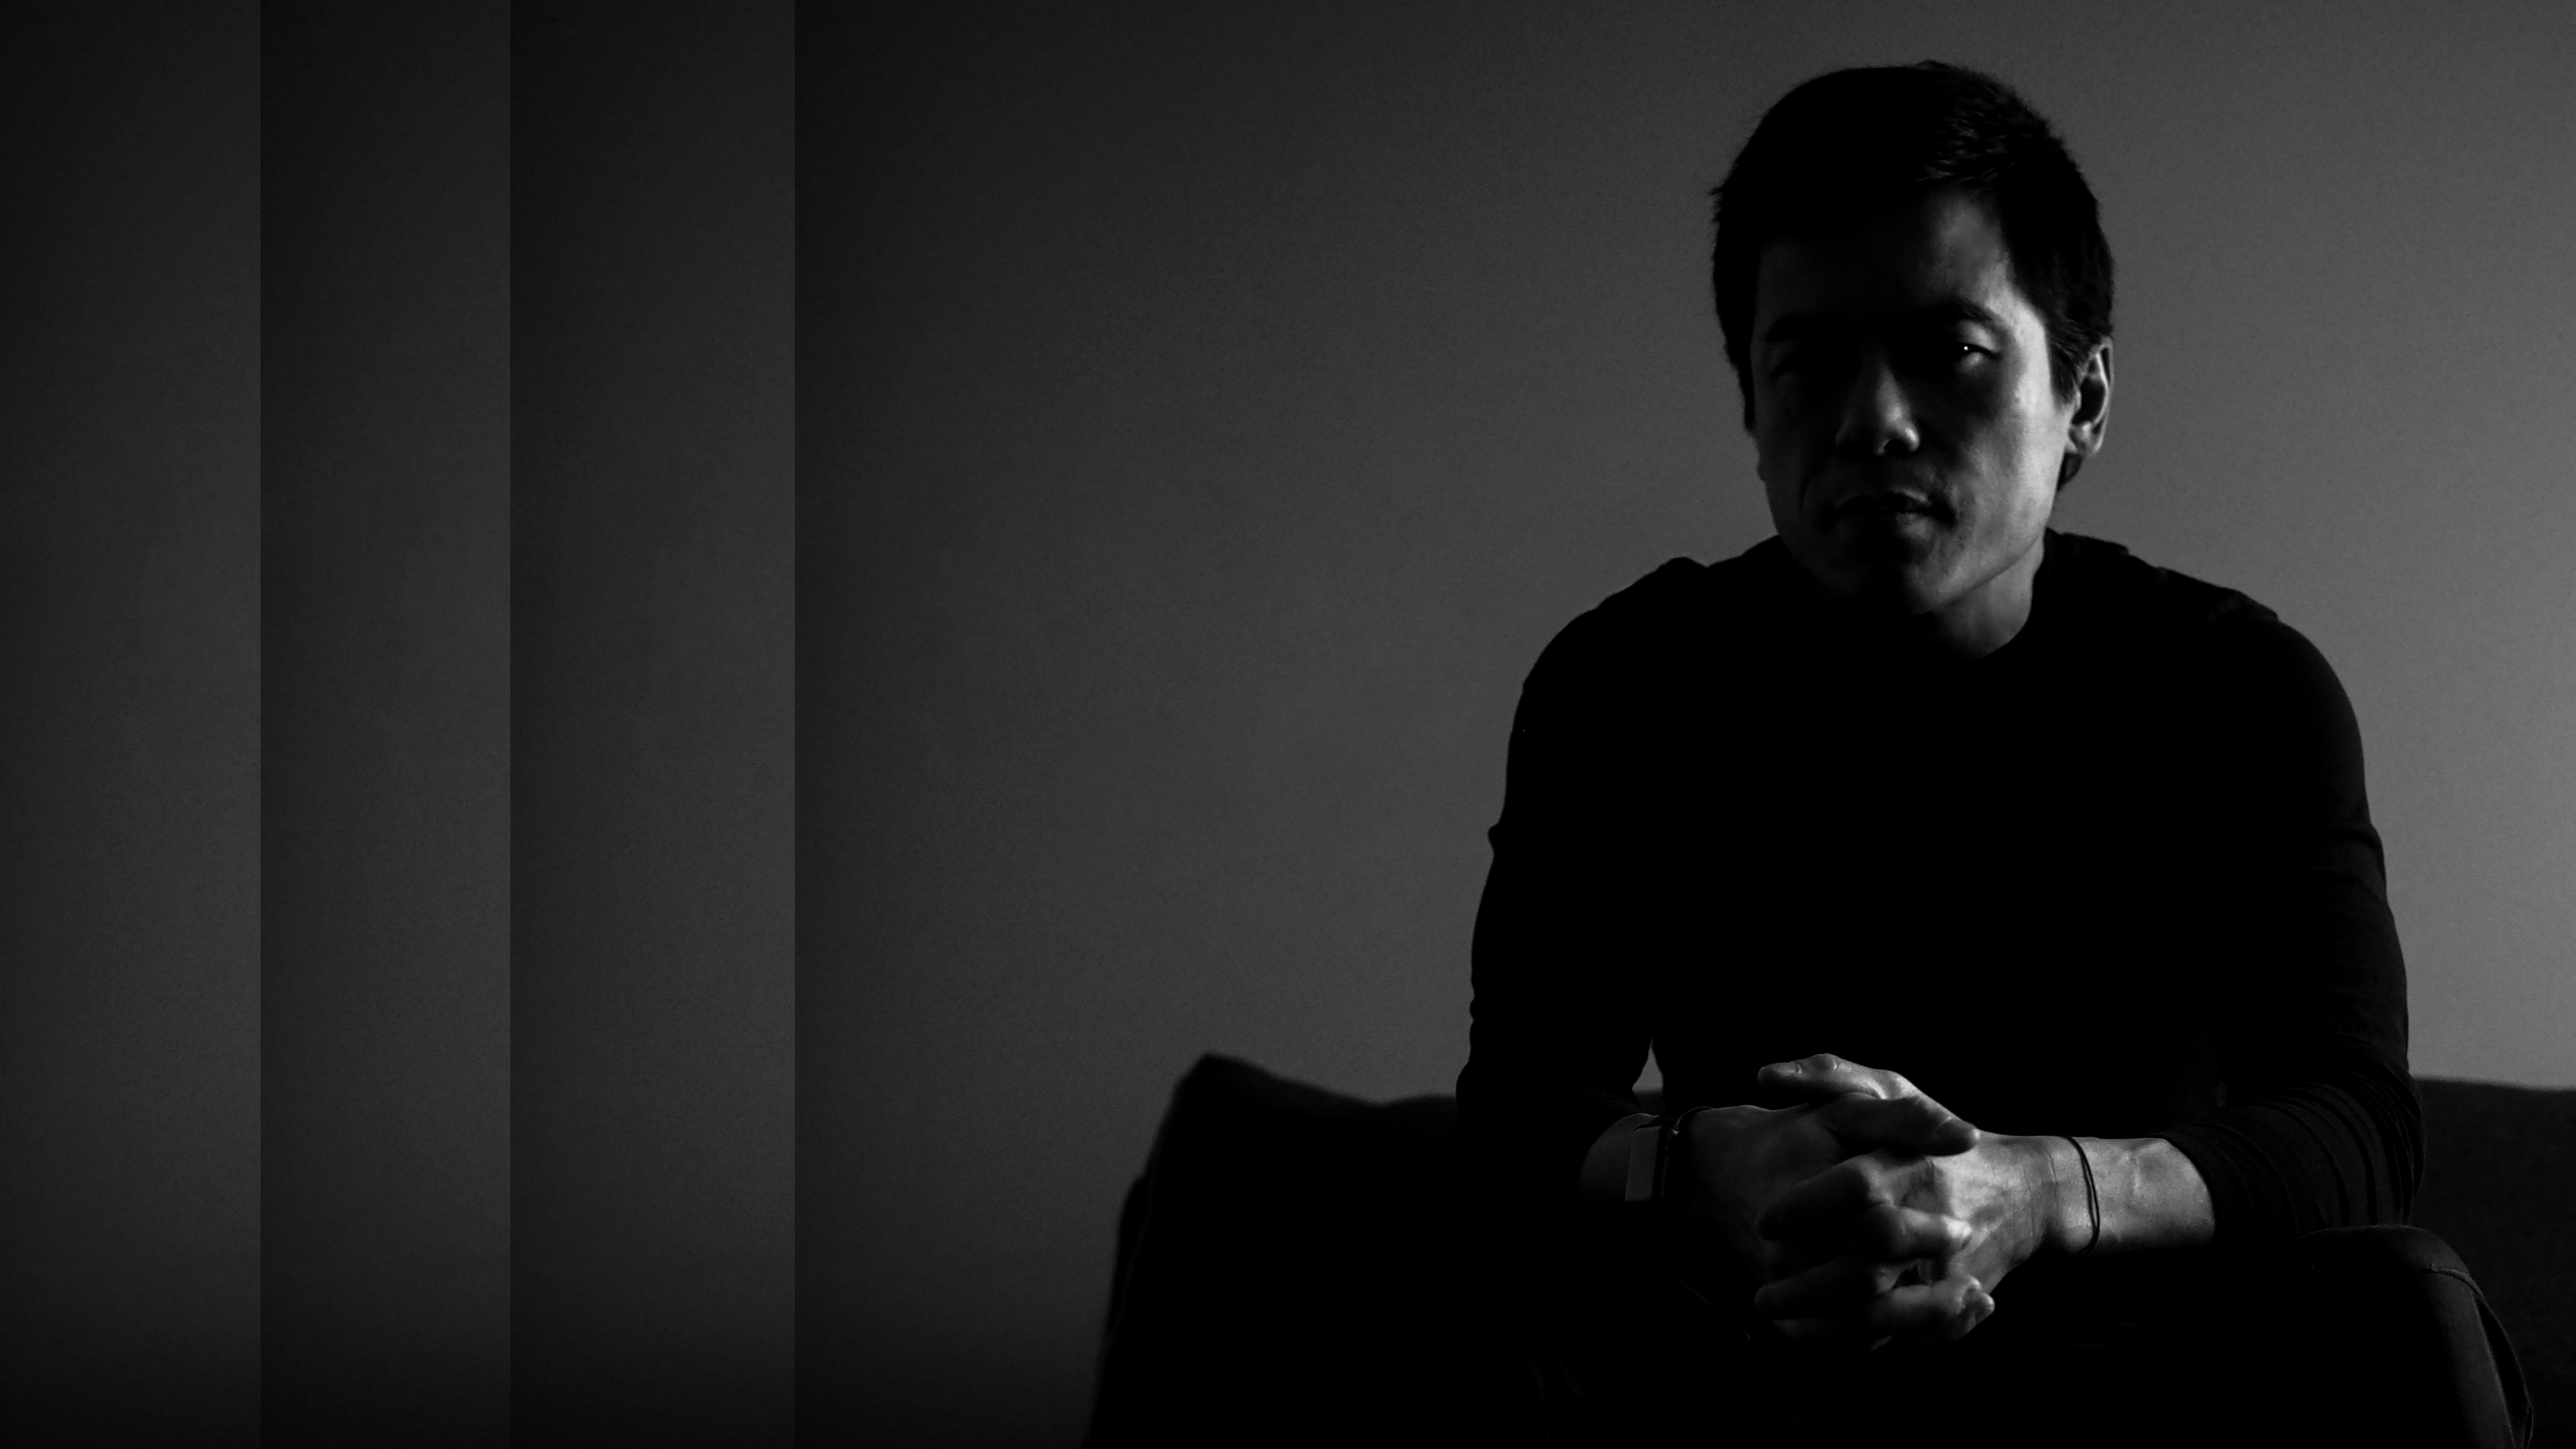
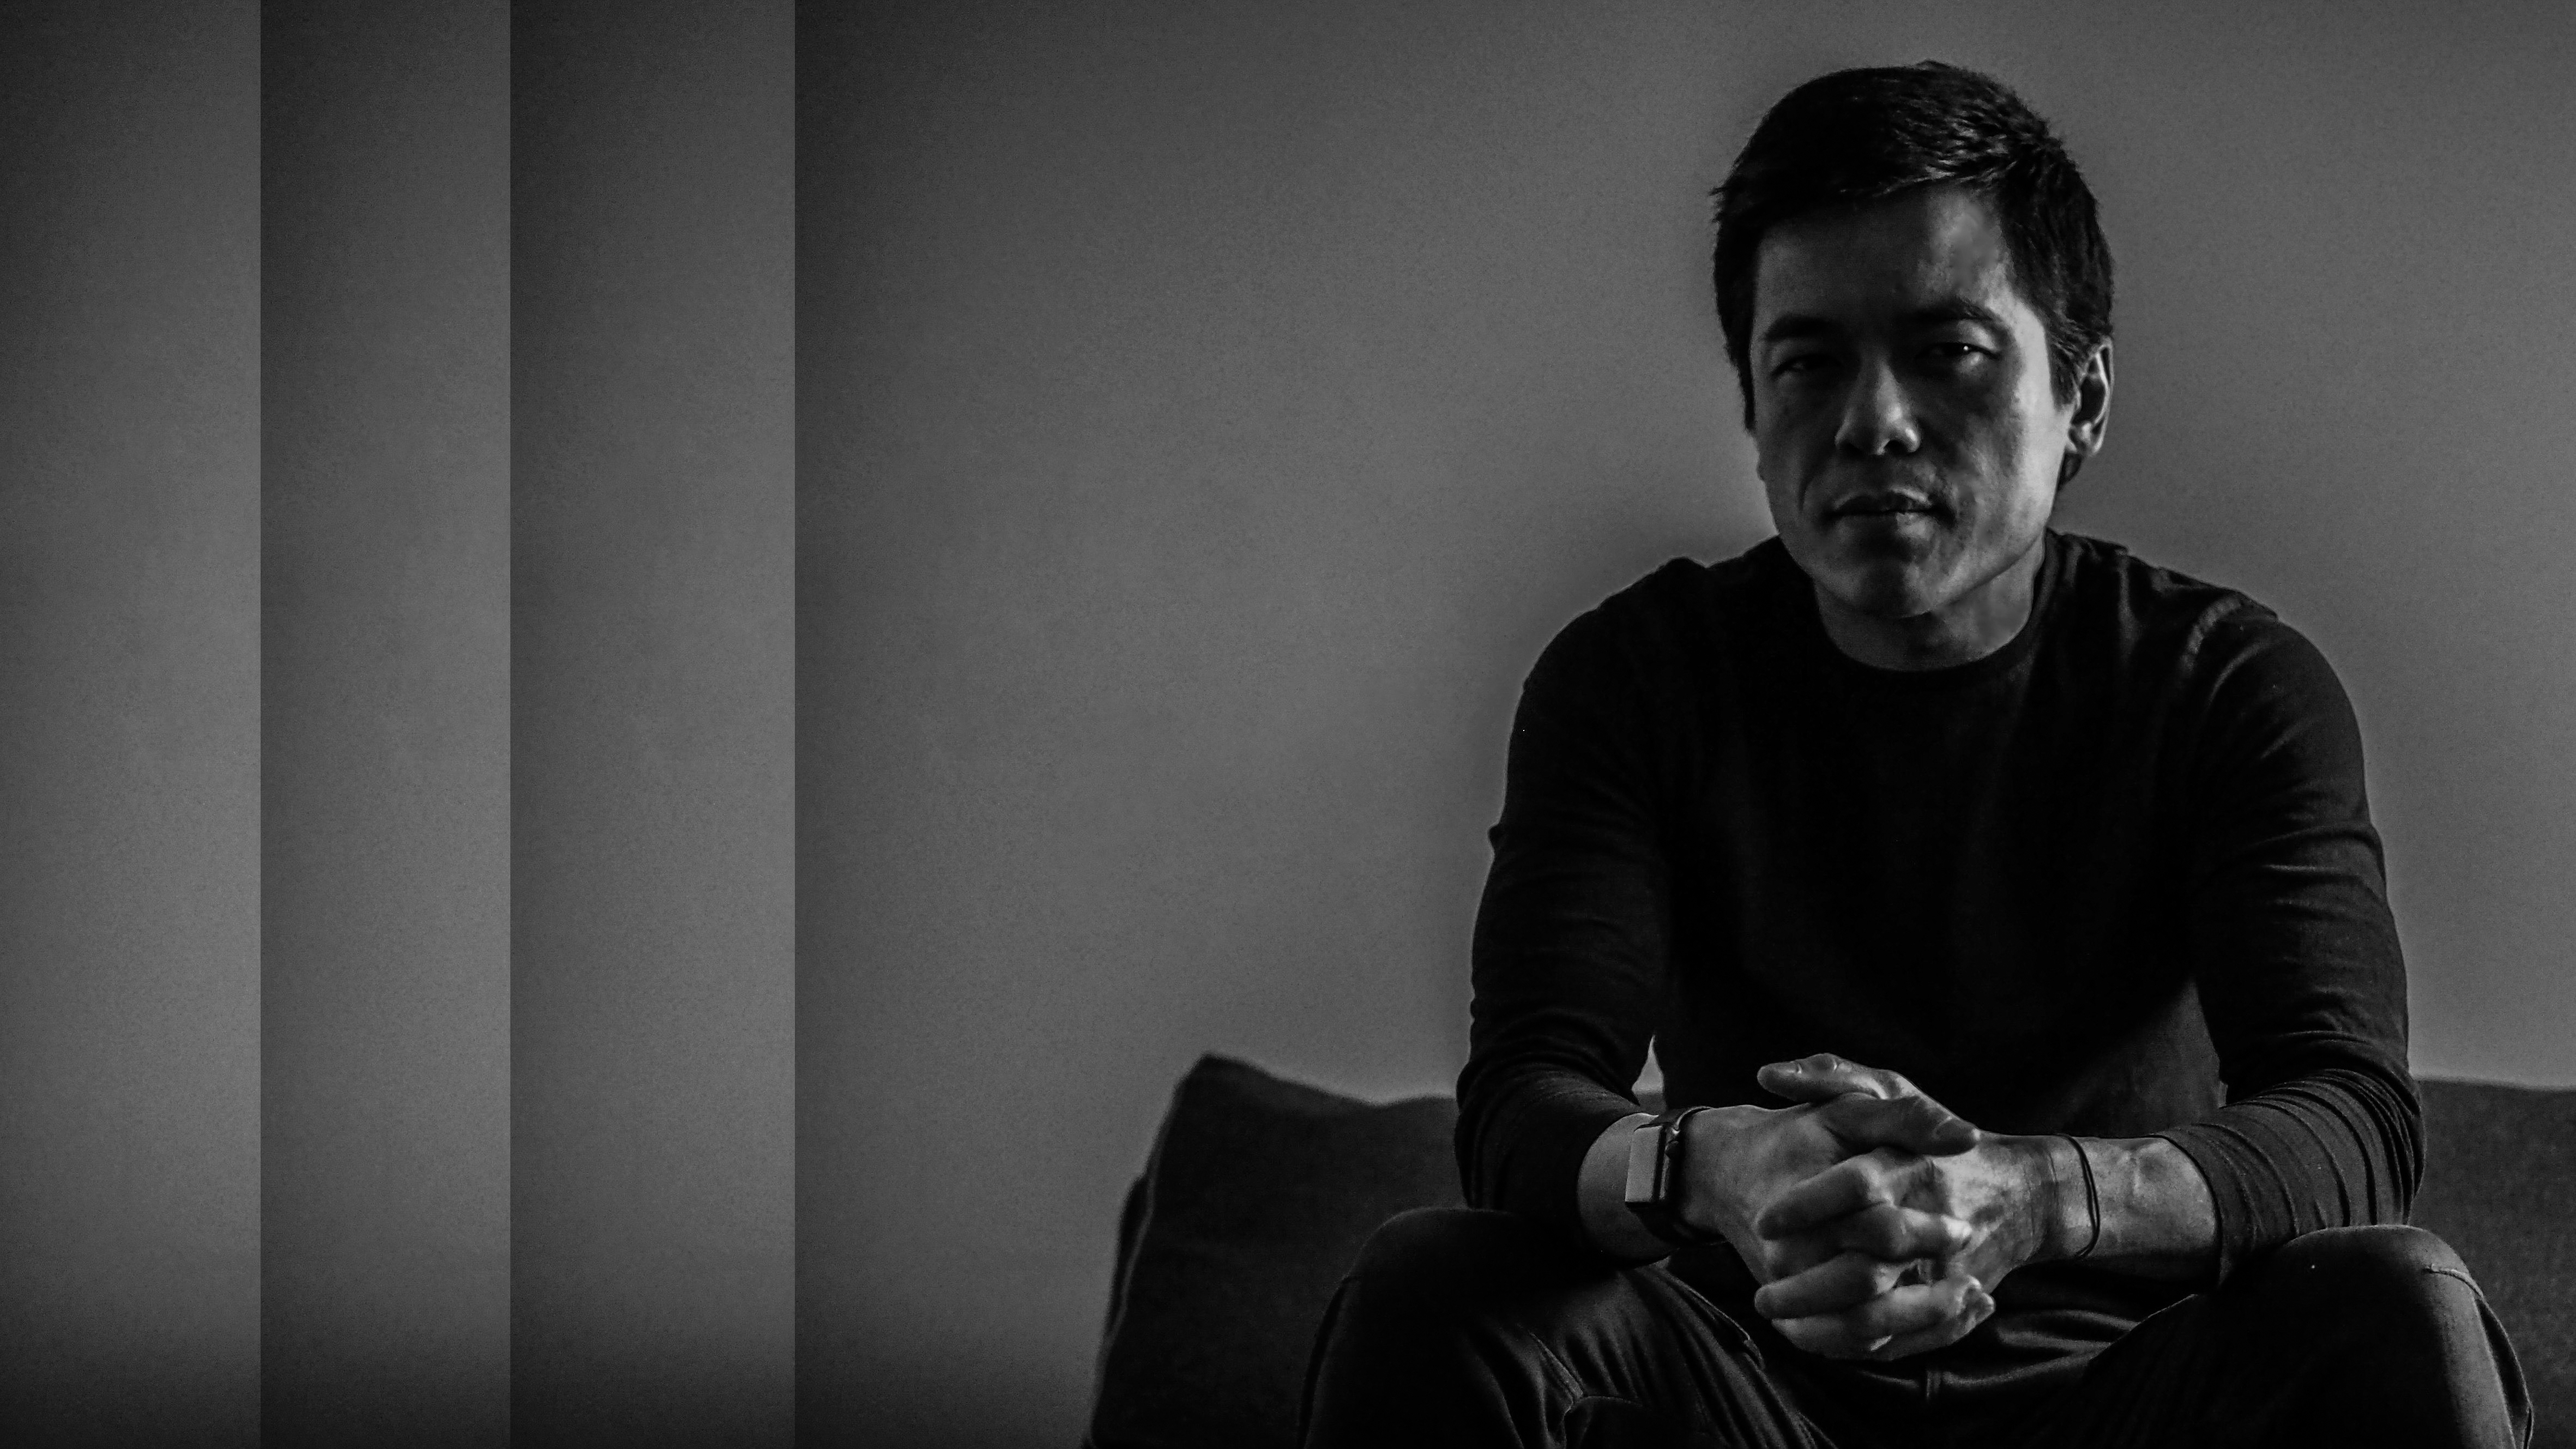
minor visual changes

diff --git a/src/utils/helpers.js b/src/utils/helpers.js
@@ -1,7 +1,7 @@
 // filter (not to include private route) and sort view routes
 const viewsFilteredAndSorted = (views) => {
   return views.filter(view => {
-    // console.log('TLC: created -> view', view);
+		// // console.log('TLC: created -> view', view);
     return !view.private;
   }).slice((viewA, viewB) => viewA.order - viewB.order);
 };
@@ -69,7 +69,7 @@ const emailRegex = /^\w+([.-]?\w+)*@\w+([.-]?\w+)*(\.\w{2,3})+$/;
 };
  */
 const scrollTo = (position) => {
-  console.log('TLC: scrollTo -> position', position);
+	// console.log('TLC: scrollTo -> position', position);
   window.scroll({
     left: position.x,
     top: position.y

diff --git a/src/components/AppAuthenticateForm.vue b/src/components/AppAuthenticateForm.vue
@@ -210,10 +210,10 @@
     --form-input-txt-color: #575757;
     --form-input-bg-color: #ddd;
     --form-input-autofill-bg-color: #ddd;
-    --form-button-submit-txt-color: #D85426;
-    --form-button-submit-bg-color:rgba(0,0,0,0.3);
-    --form-button-submit-disabled-txt-color: #575757;
-    --form-button-submit-disabled-bg-color:rgba(0,0,0,0.1);
+    --form-button-submit-txt-color: #f7f7f7;
+    --form-button-submit-bg-color: #D85426;
+    --form-button-submit-txt-color-disabled: #979797;
+    --form-button-submit-bg-color-disabled: rgba(0,0,0,0.1);
     --footnote-txt-color: #979797;
     --footnote-txt-color-links: #878787;
 

diff --git a/src/App.vue b/src/App.vue
@@ -98,7 +98,7 @@
   margin: 0 auto;
 }
 .bg-gradient {
-  background-color: rgba(0, 0, 0, 0.3);
+  background-color: rgba(0, 0, 0, 0.8);
   position: absolute;
   top: 0;
   left: 0;
@@ -113,6 +113,8 @@
   box-sizing: border-box;
   padding: var(--site-wrap-padding);
   overflow-y: scroll;
+  scrollbar-color: #D85426 #D85426;
+  scrollbar-width: thin;
   &::-webkit-scrollbar {
       background: transparent;
       width: 0.3em;
@@ -122,6 +124,7 @@
       border-radius: 0.5em;
   }
   &:hover {
+  scrollbar-color: #D85426 #D85426;
     &::-webkit-scrollbar-thumb {
       background: #D85426;
     }

diff --git a/src/styles/global/responsive-vars.scss b/src/styles/global/responsive-vars.scss
@@ -31,10 +31,9 @@
     --form-button-txt-color-disabled: #d7d7d7;
     --form-button-bg-color-disabled:rgba(0,0,0,0.4);
     --form-button-submit-txt-color: #D85426;
-    --form-button-submit-bg-color:rgba(0,0,0,0.7);
-    --form-button-submit-disabled-txt-color: #d7d7d7;
-    --form-button-submit-disabled-bg-color:rgba(0,0,0,0.4);
-
+    --form-button-submit-txt-color-disabled: #f7f7f7;
+    --form-button-submit-bg-color: rgba(0,0,0,0.7);
+    --form-button-submit-bg-color-disabled: rgba(0,0,0,0.4);
 
     --footnote-txt-color: #555;
     --footnote-txt-color-links: #666;

diff --git a/src/styles/global/base.scss b/src/styles/global/base.scss
@@ -15,8 +15,8 @@ body {
     box-sizing: border-box;
     z-index: 1;
     // background-image: url('../assets/shutterstock_1135600613.jpg');
-    background-image: url('../assets/chinh-main.jpg');
-    // background-image: url('../assets/chinh-main-bw.jpg');
+    // background-image: url('../assets/chinh-main.jpg');
+    background-image: url('../assets/chinh-main-bw.jpg');
     background-size: cover;
     background-position: center center;
     background-repeat: no-repeat;

diff --git a/src/components/base/BaseFormButtonSubmit.vue b/src/components/base/BaseFormButtonSubmit.vue
@@ -37,8 +37,8 @@
     background-color: var(--form-button-submit-bg-color);
     margin-top: 2em;
     &:disabled {
-      color: var(--form-button-submit-disabled-txt-color);
-      background-color: var(--form-button-submit-disabled-bg-color);
+      color: var(--form-button-submit-txt-color-disabled);
+      background-color: var(--form-button-submit-bg-color-disabled);
     }
     &:hover {
         cursor: pointer;

diff --git a/src/components/AppContactForm.vue b/src/components/AppContactForm.vue
@@ -265,6 +265,9 @@
 <style lang="scss" module>
 .contact-form {
   --form-input-autofill-bg-color: transparent;
+  --form-button-submit-txt-color: #f7f7f7;
+  --form-button-submit-bg-color: #D85426;
+  --form-button-submit-txt-color-disabled: #979797;
   --footnote-txt-color: #a7a7a7;
   --footnote-txt-color-links: #b7b7b7;
 }
